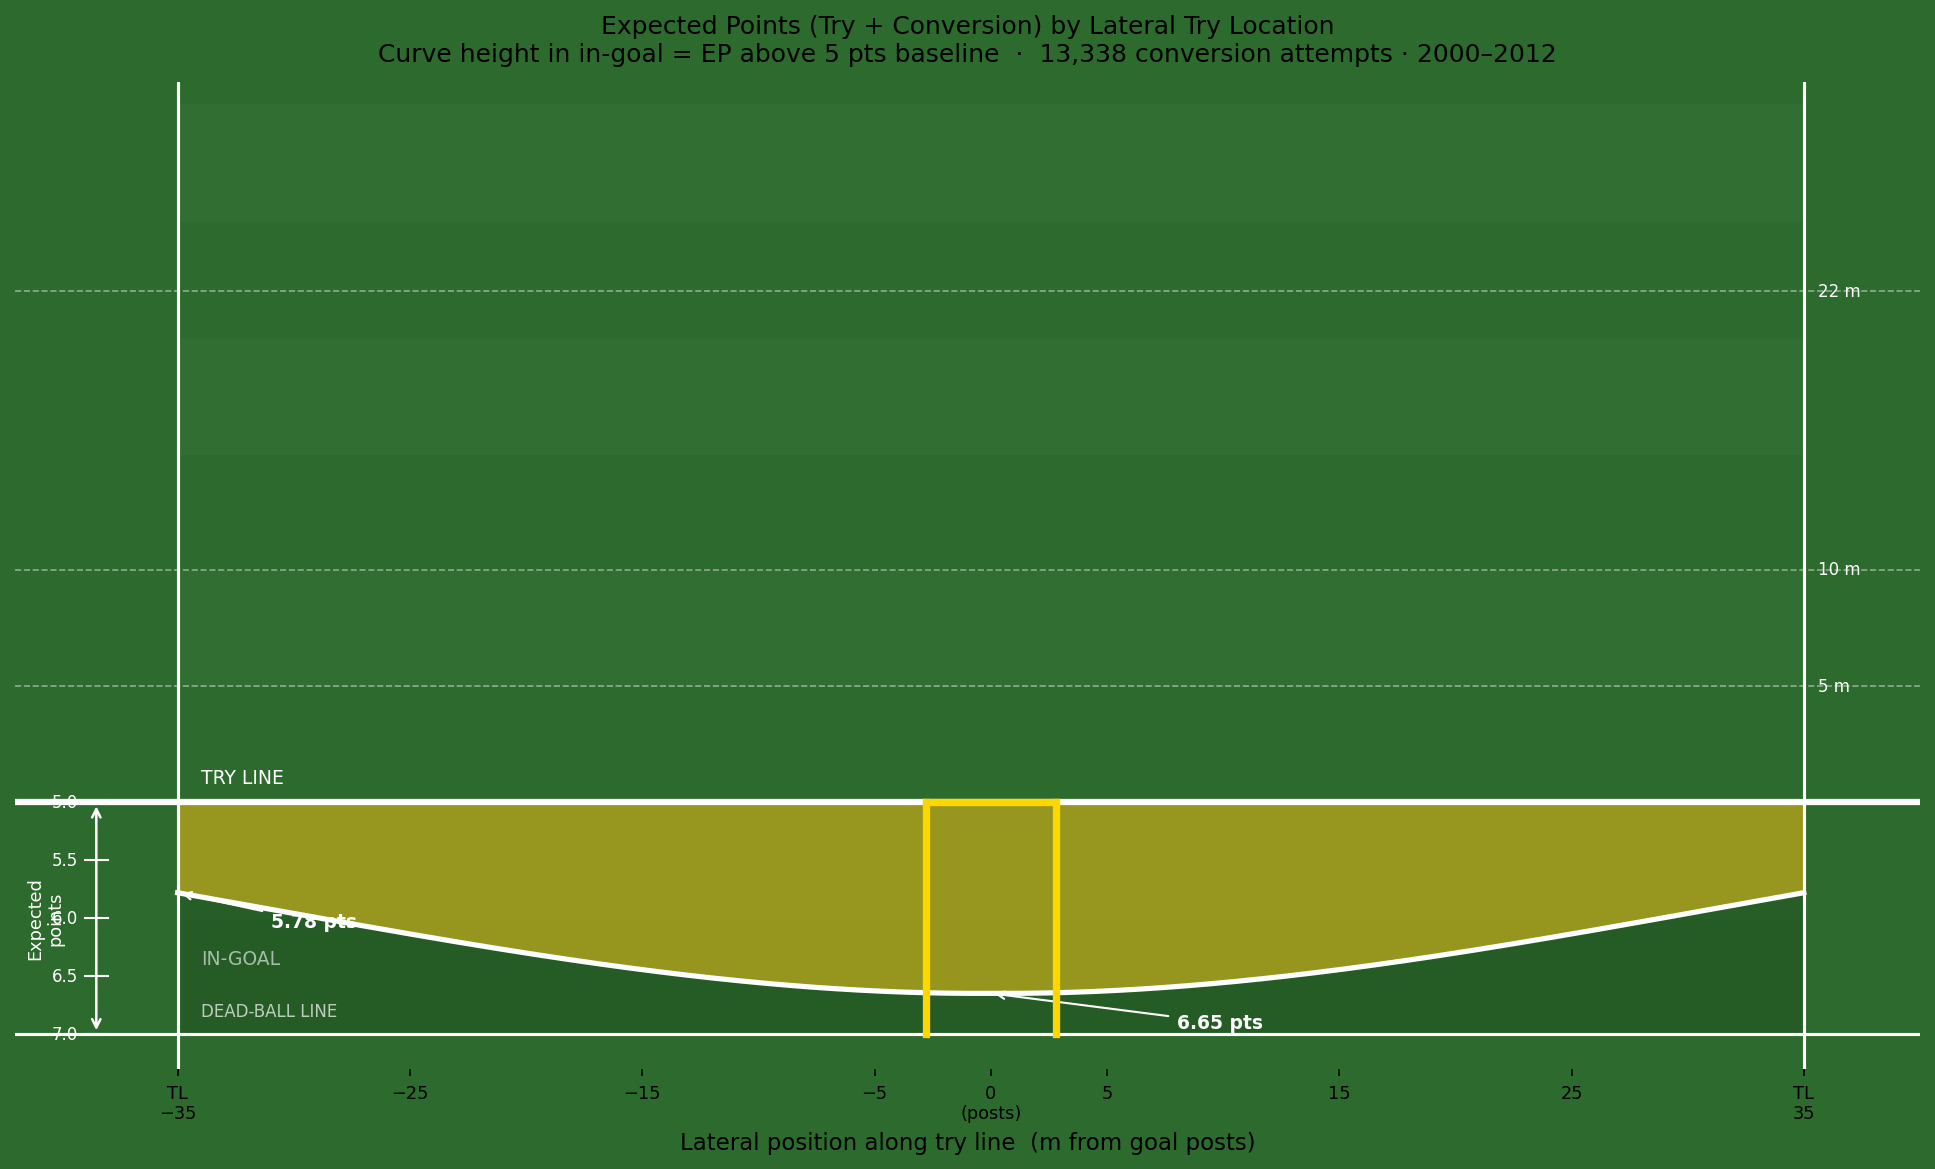
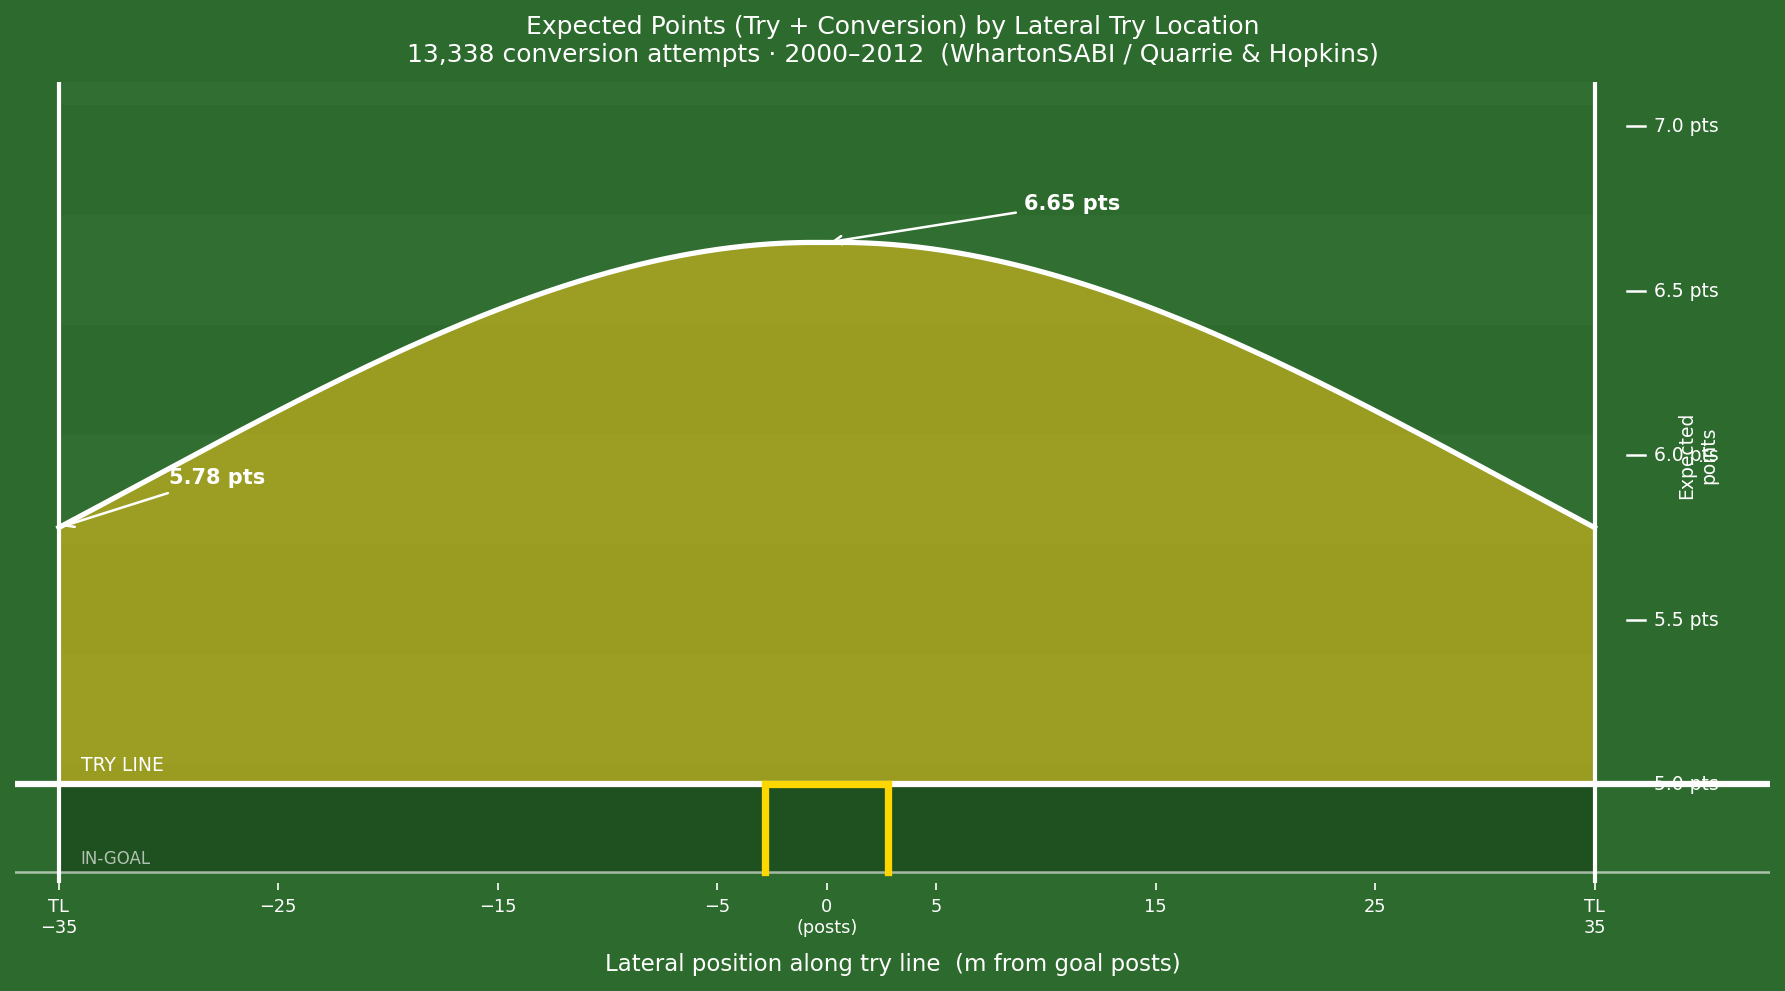
Pitch plot: curve peaks high at centre, EP scale on right, no yard lines

diff --git a/expected_points_pitch.py b/expected_points_pitch.py
@@ -1,17 +1,15 @@
 """
 Expected points (try + conversion) vs. lateral try location —
-visualised as a filled curve drawn inside the in-goal zone of a
-top-down rugby pitch.
+visualised as a filled hill curve rising above the try line on an
+abstract top-down rugby pitch.
 
-The in-goal (10 m deep) is used as the plotting canvas:
-  try line  (y = 0)   ↔  5 pts  (try alone, zero conversion bonus)
-  dead-ball (y = -10) ↔  7 pts  (try + certain conversion)
+Coordinate mapping (y-axis):
+  try line  (y = 0)  ↔  5.0 pts  (try alone)
+  top       (y = 30) ↔  7.0 pts  (try + certain conversion)
 
-The filled curve shows how much expected value above 5 pts the
-kicker adds, as a function of where the try was scored laterally.
-
-Data: 13,338 conversion attempts from goal_kicking_data.csv
-(WhartonSABI / Quarrie & Hopkins, 2000-2012).
+The curve peaks upward at centre and dips toward the wings.
+Data: 13,338 conversion attempts, goal_kicking_data.csv
+(WhartonSABI / Quarrie & Hopkins, 2000–2012).
 """
 
 import matplotlib
@@ -21,11 +19,10 @@ import numpy as np
 import pandas as pd
 import matplotlib.pyplot as plt
 import matplotlib.patches as mpatches
-from matplotlib.patches import FancyArrowPatch
 from scipy.interpolate import UnivariateSpline
 
 # ---------------------------------------------------------------------------
-# Load & fit empirical conversion data
+# Load & fit
 # ---------------------------------------------------------------------------
 df   = pd.read_csv("goal_kicking_data.csv")
 conv = df[df["Type"] == 2].copy()
@@ -53,125 +50,116 @@ p_conv = np.clip(spl(np.abs(lat)), 0, 1)
 ep     = 5 + 2 * p_conv
 
 # ---------------------------------------------------------------------------
-# Map expected points → in-goal y-coordinate
-# 5 pts → y = 0 (try line), 7 pts → y = -10 (dead-ball line)
+# Map EP → y  (5 pts = 0, 7 pts = Y_TOP)
 # ---------------------------------------------------------------------------
+Y_TOP   = 30.0          # full chart height above try line
+Y_BOT   = -4.0          # small in-goal strip below
+
 def ep_to_y(e):
-    return -(e - 5) * 5.0          # 2 pts spans 10 m
+    return (e - 5.0) * (Y_TOP / 2.0)   # 2 pt range → Y_TOP metres
 
 curve_y = ep_to_y(ep)
+
+# EP tick positions
+ep_ticks = [5.0, 5.5, 6.0, 6.5, 7.0]
 
 # ---------------------------------------------------------------------------
 # Figure
 # ---------------------------------------------------------------------------
-IN_GOAL  = 10.0
-Y_BOT    = -IN_GOAL          # dead-ball line
-Y_TOP    = 30.0              # show 30 m of field above try line
 POST_SEP = 5.6 / 2
 
-fig, ax = plt.subplots(figsize=(13, 8))
+fig, ax = plt.subplots(figsize=(12, 8))
+fig.patch.set_facecolor("#2d6a2d")
 ax.set_facecolor("#2d6a2d")
 
-# ── Grass stripes ─────────────────────────────────────────────────────────────
+# ── Grass stripes (vertical bands across the chart height) ───────────────────
 stripe_colors = ["#2d6a2d", "#316e31"]
-for i, y_start in enumerate(range(int(Y_BOT), int(Y_TOP), 5)):
+for i, y_start in enumerate(np.arange(Y_BOT, Y_TOP + 5, 5)):
     ax.add_patch(mpatches.Rectangle(
         (-HALF_WIDTH, y_start), 2 * HALF_WIDTH, 5,
-        color=stripe_colors[i % 2], zorder=0
+        color=stripe_colors[int(i) % 2], zorder=0
     ))
 
-# ── In-goal darker tint ───────────────────────────────────────────────────────
+# In-goal darker tint below try line
 ax.add_patch(mpatches.Rectangle(
-    (-HALF_WIDTH, Y_BOT), 2 * HALF_WIDTH, IN_GOAL,
-    color="#1f4f1f", zorder=1, alpha=0.5
+    (-HALF_WIDTH, Y_BOT), 2 * HALF_WIDTH, abs(Y_BOT),
+    color="#1a451a", zorder=1, alpha=0.7
 ))
 
-# ── EP fill: between try line (y=0) and the EP curve ─────────────────────────
-# Shade from curve_y up to 0 (try line) with a warm golden fill
-ax.fill_between(lat, curve_y, 0,
-                color="#f5c518", alpha=0.55, zorder=2, linewidth=0)
+# ── EP fill: try line up to curve ─────────────────────────────────────────────
+ax.fill_between(lat, 0, curve_y, color="#f5c518", alpha=0.55, zorder=2, linewidth=0)
 
 # ── EP curve ──────────────────────────────────────────────────────────────────
 ax.plot(lat, curve_y, color="white", lw=2.5, zorder=5)
 
 # ── Pitch lines ───────────────────────────────────────────────────────────────
-line_kw = dict(color="white", lw=1.5, zorder=3)
-ax.axvline(-HALF_WIDTH, **line_kw)
-ax.axvline( HALF_WIDTH, **line_kw)
-ax.axhline(0,    color="white", lw=3,   zorder=4)    # try line
-ax.axhline(Y_BOT, **line_kw)                          # dead-ball line
-for y in [5, 10, 22]:
-    ax.axhline(y, color="white", lw=0.8, ls="--", alpha=0.45, zorder=3)
-    ax.text(HALF_WIDTH + 0.6, y, f"{y} m",
-            color="white", fontsize=8, va="center", zorder=5)
+ax.axvline(-HALF_WIDTH, color="white", lw=2,   zorder=3)   # left touchline
+ax.axvline( HALF_WIDTH, color="white", lw=2,   zorder=3)   # right touchline
+ax.axhline(0,           color="white", lw=3,   zorder=4)   # try line
+ax.axhline(Y_BOT,       color="white", lw=1.2, zorder=3, alpha=0.6)   # dead-ball
 
 # ── Goal posts ────────────────────────────────────────────────────────────────
 post_kw = dict(color="#FFD700", lw=3.5, zorder=6)
 ax.plot([-POST_SEP, -POST_SEP], [Y_BOT, 0], **post_kw)
 ax.plot([ POST_SEP,  POST_SEP], [Y_BOT, 0], **post_kw)
-ax.plot([-POST_SEP,  POST_SEP], [0,     0], **post_kw)   # crossbar
+ax.plot([-POST_SEP,  POST_SEP], [0,     0], **post_kw)
 
-# ── EP scale on left edge ─────────────────────────────────────────────────────
-scale_x = -HALF_WIDTH - 3.5
-for pts in [5, 5.5, 6, 6.5, 7]:
+# ── Y-axis EP scale (right edge) ─────────────────────────────────────────────
+scale_x = HALF_WIDTH + 1.5
+for pts in ep_ticks:
     y = ep_to_y(pts)
-    ax.plot([scale_x - 0.5, scale_x + 0.5], [y, y], color="white", lw=1, zorder=7)
-    ax.text(scale_x - 0.8, y, f"{pts:.1f}",
-            color="white", fontsize=8, ha="right", va="center", zorder=7)
+    ax.plot([scale_x, scale_x + 0.8], [y, y], color="white", lw=1.2, zorder=7)
+    ax.text(scale_x + 1.2, y, f"{pts:.1f} pts",
+            color="white", fontsize=9, va="center", zorder=7)
 
-# Bracket
-ax.annotate("", xy=(scale_x, Y_BOT), xytext=(scale_x, 0),
-            arrowprops=dict(arrowstyle="<->", color="white", lw=1.2))
-ax.text(scale_x - 2.2, Y_BOT / 2, "Expected\npoints",
-        color="white", fontsize=8.5, ha="center", va="center",
+ax.text(scale_x + 3.2, ep_to_y(6.0), "Expected\npoints",
+        color="white", fontsize=9, ha="center", va="center",
         rotation=90, zorder=7)
 
-# ── Labels on try line & dead-ball line ──────────────────────────────────────
-ax.text(-HALF_WIDTH + 1, 0.8,  "TRY LINE",       color="white", fontsize=9, zorder=8)
-ax.text(-HALF_WIDTH + 1, Y_BOT + 0.8, "DEAD-BALL LINE", color="white", fontsize=8,
-        alpha=0.7, zorder=8)
-ax.text(-HALF_WIDTH + 1, Y_BOT + 3,  "IN-GOAL",  color="white", fontsize=9,
-        alpha=0.6, zorder=8)
+# ── Labels ────────────────────────────────────────────────────────────────────
+ax.text(-HALF_WIDTH + 1, 0.6,   "TRY LINE", color="white", fontsize=9,  zorder=8)
+ax.text(-HALF_WIDTH + 1, Y_BOT + 0.4, "IN-GOAL", color="white", fontsize=8,
+        alpha=0.65, zorder=8)
 
-# ── Key annotations ───────────────────────────────────────────────────────────
+# Key value annotations
 ep_centre = float(5 + 2 * np.clip(spl(0), 0, 1))
 ep_tl     = float(ep[0])
-y_ctr     = ep_to_y(ep_centre)
-y_tl      = ep_to_y(ep_tl)
-
 ax.annotate(f"{ep_centre:.2f} pts",
-            xy=(0, y_ctr), xytext=(8, y_ctr - 1.5),
-            color="white", fontsize=9, fontweight="bold",
-            arrowprops=dict(arrowstyle="->", color="white", lw=1))
+            xy=(0, ep_to_y(ep_centre)),
+            xytext=(9, ep_to_y(ep_centre) + 1.5),
+            color="white", fontsize=10, fontweight="bold",
+            arrowprops=dict(arrowstyle="->", color="white", lw=1.2))
 ax.annotate(f"{ep_tl:.2f} pts",
-            xy=(-HALF_WIDTH, y_tl), xytext=(-HALF_WIDTH + 4, y_tl - 1.5),
-            color="white", fontsize=9, fontweight="bold",
-            arrowprops=dict(arrowstyle="->", color="white", lw=1))
+            xy=(-HALF_WIDTH, ep_to_y(ep_tl)),
+            xytext=(-HALF_WIDTH + 5, ep_to_y(ep_tl) + 2),
+            color="white", fontsize=10, fontweight="bold",
+            arrowprops=dict(arrowstyle="->", color="white", lw=1.2))
 
-# ── Title & layout ────────────────────────────────────────────────────────────
+# ── Title & axes ──────────────────────────────────────────────────────────────
 ax.set_title(
     "Expected Points (Try + Conversion) by Lateral Try Location\n"
-    "Curve height in in-goal = EP above 5 pts baseline  ·  "
-    "13,338 conversion attempts · 2000–2012",
-    fontsize=12, color="black", pad=10
+    "13,338 conversion attempts · 2000–2012  (WhartonSABI / Quarrie & Hopkins)",
+    fontsize=12, color="white", pad=10
 )
 
-ax.set_xlim(-HALF_WIDTH - 7, HALF_WIDTH + 5)
-ax.set_ylim(Y_BOT - 1.5, Y_TOP + 1)
+ax.set_xlim(-HALF_WIDTH - 2, HALF_WIDTH + 8)
+ax.set_ylim(Y_BOT - 0.5, Y_TOP + 2)
 ax.set_aspect("equal")
 
-# x-axis labels (lateral metres)
 ax.set_xticks([-35, -25, -15, -5, 0, 5, 15, 25, 35])
 ax.set_xticklabels(
     ["TL\n−35", "−25", "−15", "−5", "0\n(posts)", "5", "15", "25", "TL\n35"],
-    color="black", fontsize=8.5
+    color="white", fontsize=8.5
 )
-ax.xaxis.set_ticks_position("bottom")
-ax.set_xlabel("Lateral position along try line  (m from goal posts)", fontsize=11)
+ax.tick_params(axis="x", colors="white")
 ax.yaxis.set_visible(False)
-ax.spines[:].set_visible(False)
+for spine in ax.spines.values():
+    spine.set_visible(False)
+
+ax.set_xlabel("Lateral position along try line  (m from goal posts)", fontsize=11,
+              color="white", labelpad=8)
 
 fig.tight_layout()
 out = "expected_points_pitch.png"
-fig.savefig(out, dpi=150, bbox_inches="tight", facecolor="#2d6a2d")
+fig.savefig(out, dpi=150, bbox_inches="tight", facecolor=fig.get_facecolor())
 print(f"Saved → {out}")
